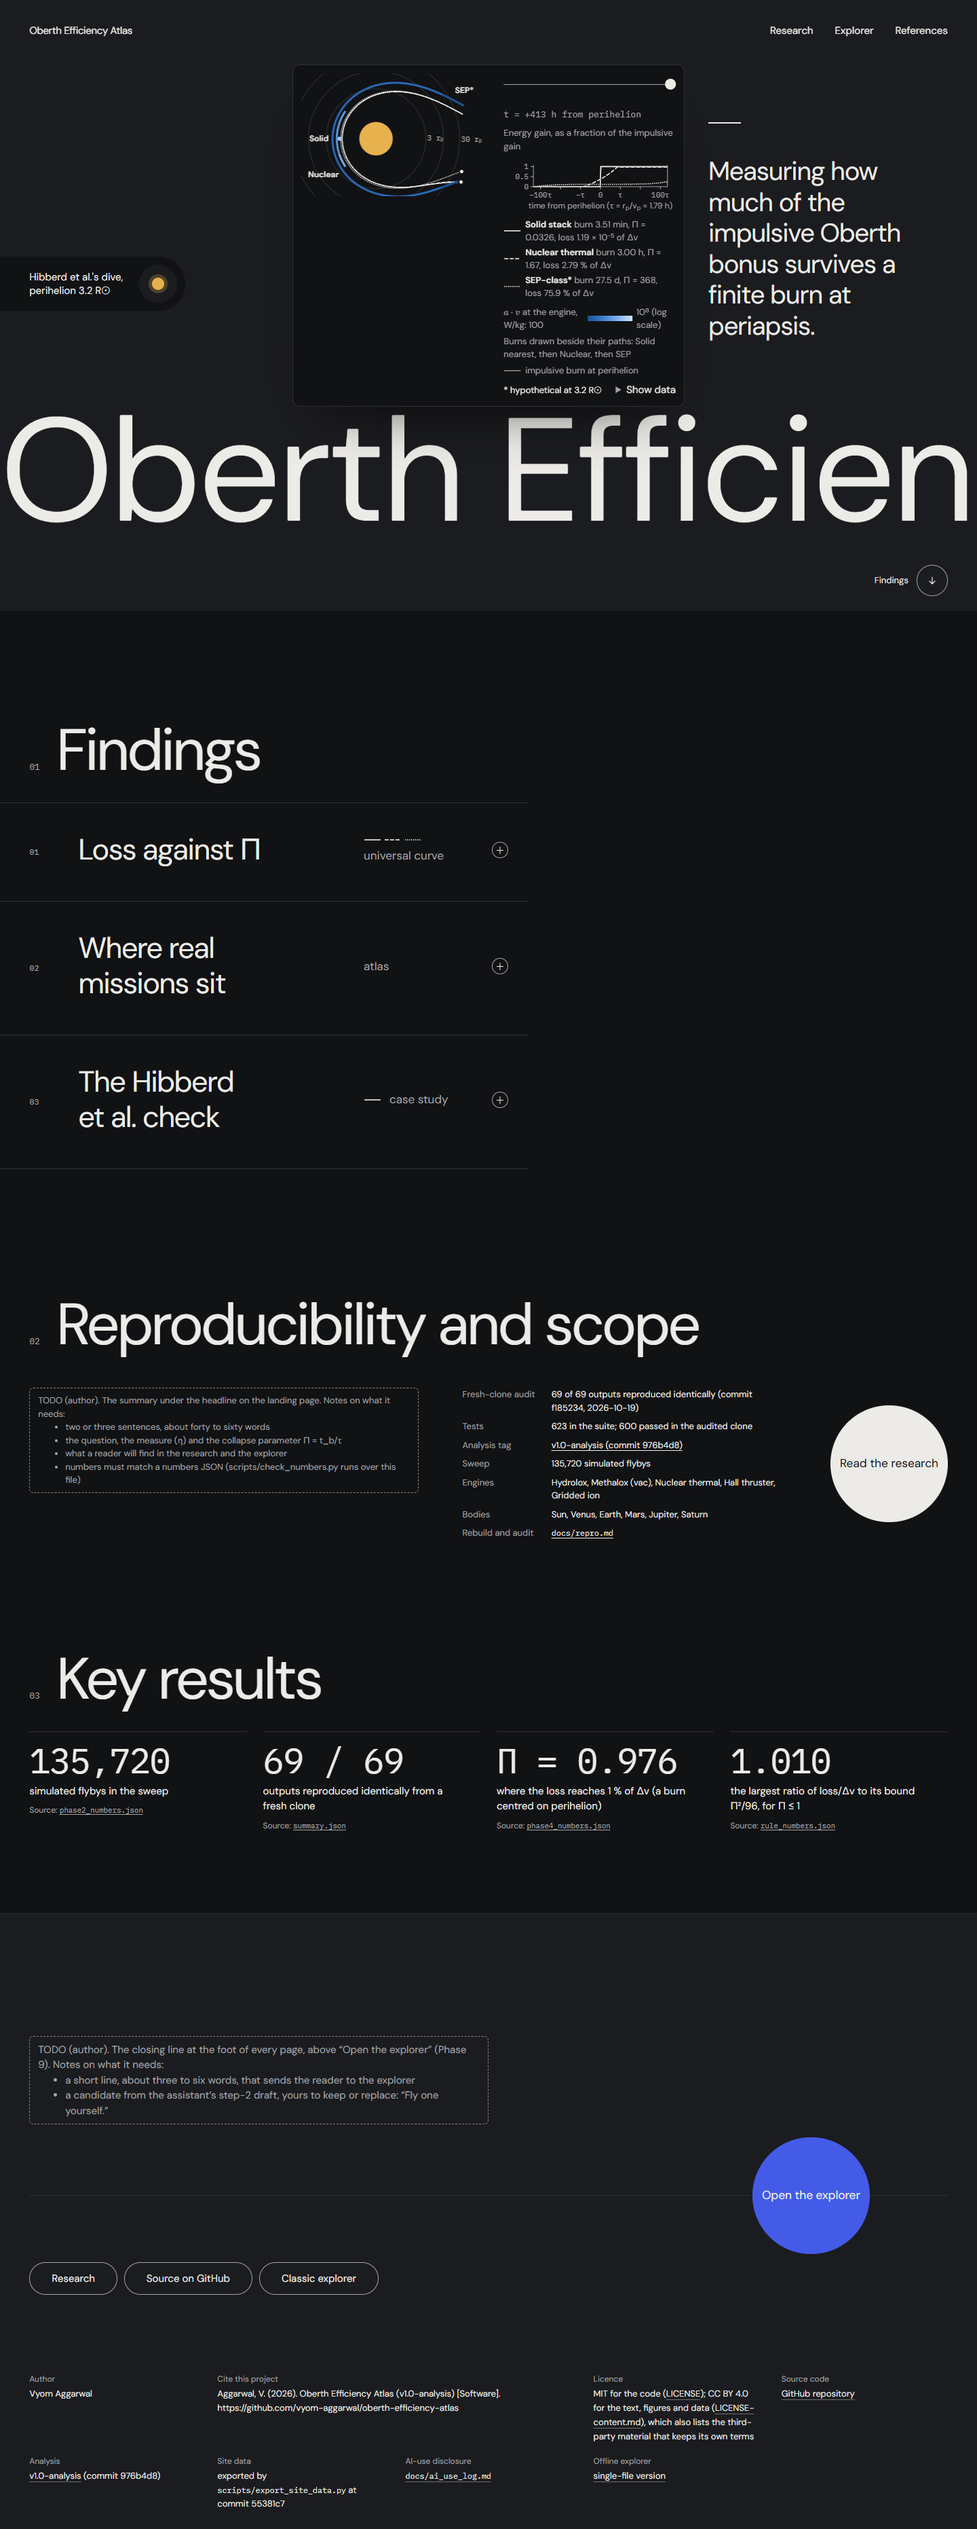
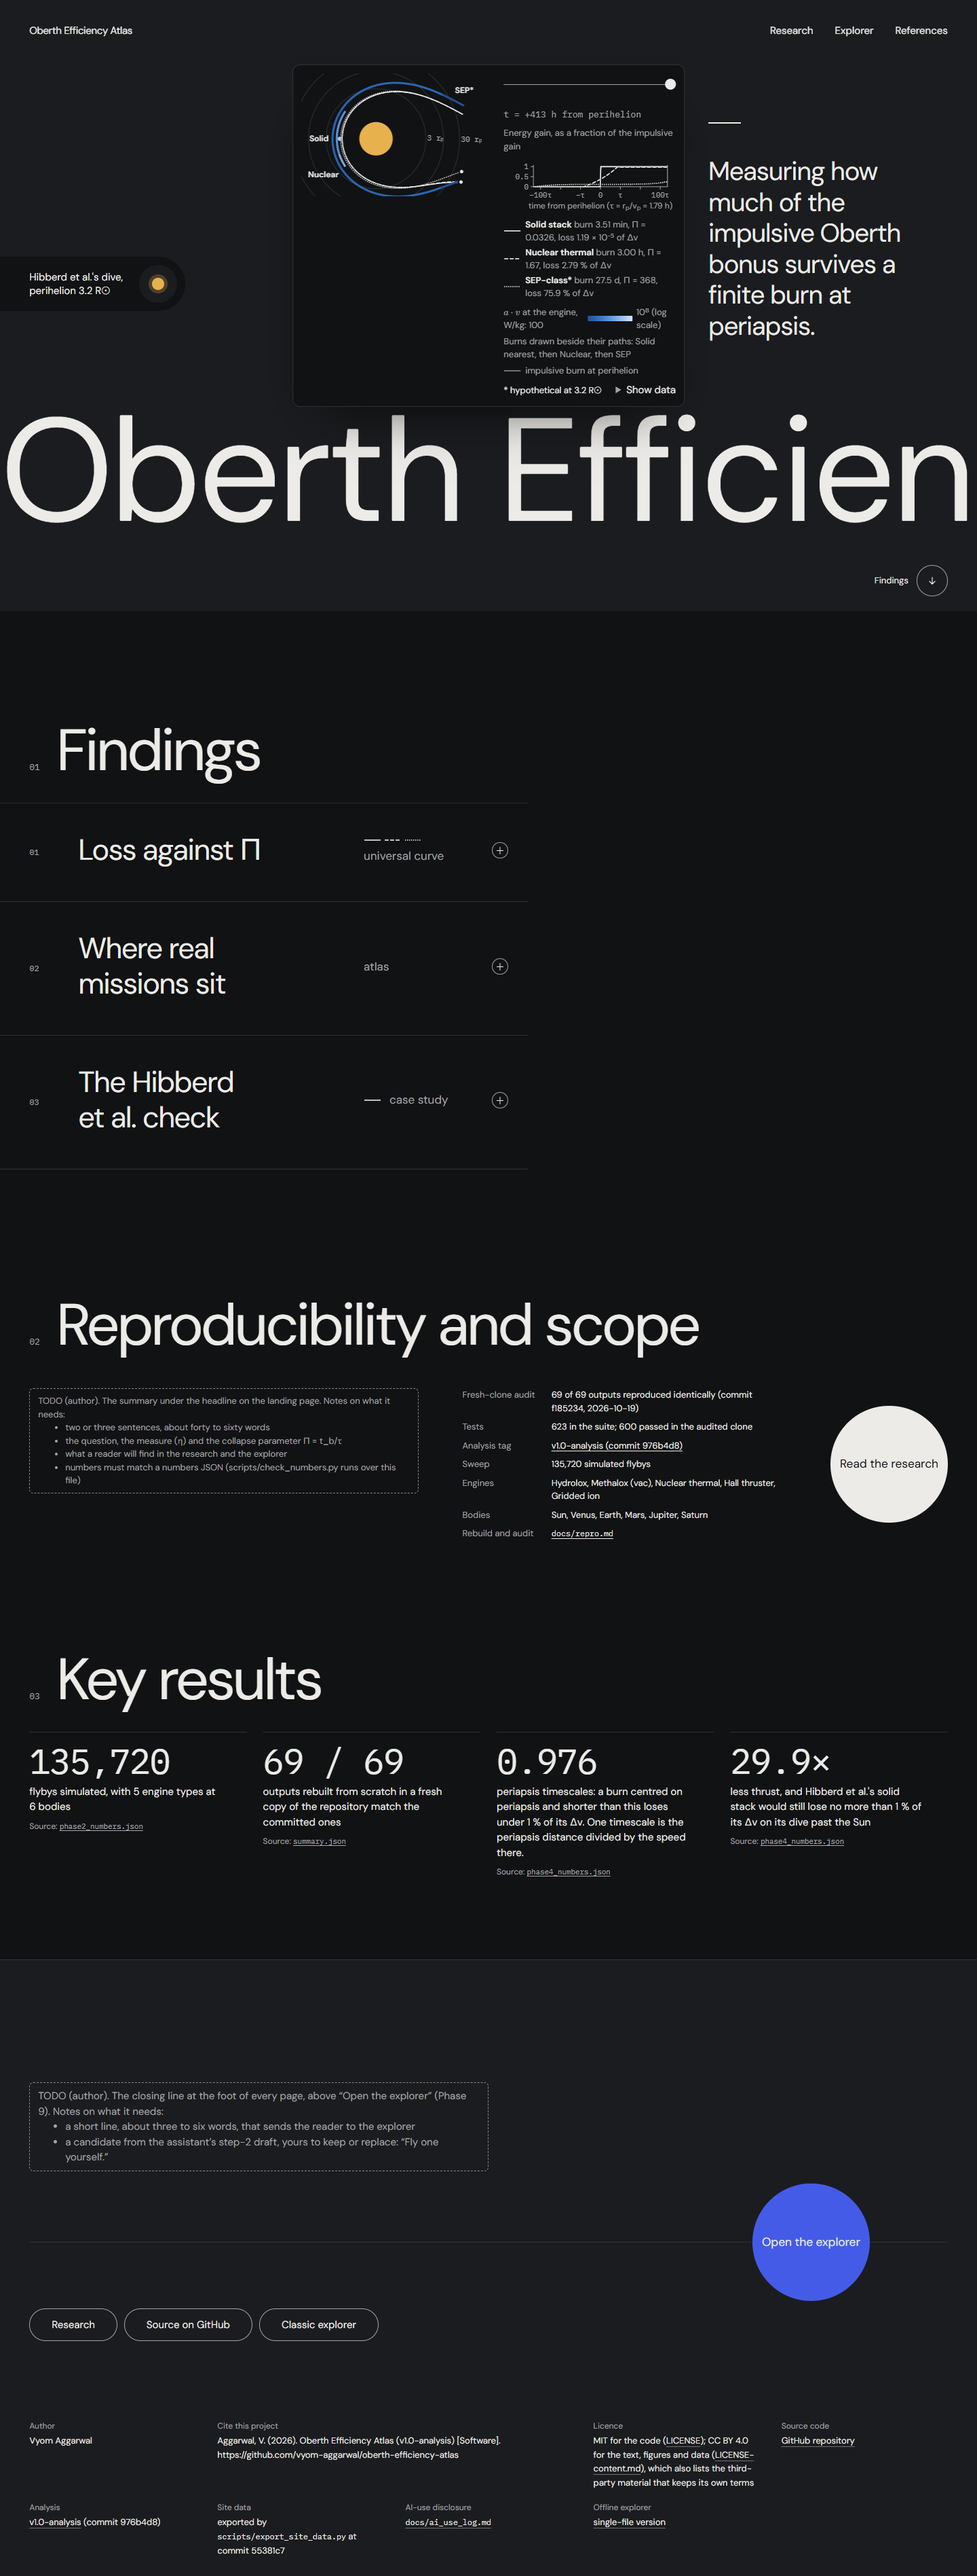
Pass 3 review fixes: laptop folds checked, plain-language key results
The author's two fixes before pass 4 (2026-11-04).

- Fold: fold.spec.ts and headline-budget.spec.ts add 1366 x 650 and 1280 x 720. The published headline and the header's
  links must be fully above the fold there; the Findings cue and the title may fall below.
  - Headline margins: 179 px (1366 x 650), 266 px (1280 x 720), 396 px (1440 x 900), 611 px (390 x 844). At 1440 the
    Findings cue has 22 px.
  - The longest headline that fits is 192 characters at both laptop sizes, so HEADLINE_BUDGET (100) holds and the hero
    needed no change.
- Key results: each number keeps its source link and gains a plain-language label without Π. The numbers inside the
  labels come from the data too.
  - "1.010 against Pi^2/96" is replaced by Hibberd et al.'s thrust margin: 29.9x less thrust before the loss reaches
    1 % (phase4_numbers.json via case.json).
  - The 1 % point now reads in periapsis timescales.
  - check_numbers matches all 9 rendered numbers, with the audit summary given via --json. landing.spec.ts checks each
    number and count against its exact source.
- The review screenshots are refreshed.

diff --git a/site/src/pages/landing.ts b/site/src/pages/landing.ts
@@ -213,7 +213,7 @@ placeDive();
 
 // ---------------------------------------------------------------- the intro's scope facts and the key results
 async function facts(site: SiteData): Promise<void> {
-  const [m, curve] = await Promise.all([loadData<any>("methods.json"), loadData<any>("curve.json")]);
+  const [m, kase] = await Promise.all([loadData<any>("methods.json"), loadData<any>("case.json")]);
   const row = (k: string, v: Node | string) => h("div", {}, h("dt", {}, k), h("dd", {}, v));
   const a = m.audit;
   $("scope-facts").append(
@@ -224,15 +224,23 @@ async function facts(site: SiteData): Promise<void> {
     row("Engines", m.scope.engines.map((e: { value: string }) => e.value).join(", ")),
     row("Bodies", Object.keys(m.scope.bodies.value).map((b) => BODY_NAMES[b] ?? b).join(", ")),
     row("Rebuild and audit", h("a", { href: `${site.repo.url}/blob/main/${m.repro_doc}`, rel: "noopener" }, m.repro_doc)));
-  // Each key result: a number from the site data, what it is, and its source file.
-  const one = curve.thresholds.find((t: { level: string }) => t.level === "1%").Pi;
-  const result = (num: string, what: Node | string, src: string) =>
+  // Each key result: a number from the site data, a plain-language label for a reader who has not met Π yet (author,
+  // 2026-11-04; every number in a label comes from the data too), and its source file. The 1 % threshold is the case
+  // study's (Hibberd et al.'s dive, a burn centred on perihelion): its Π and how far the stack's thrust could fall.
+  const one = kase.thresholds.find((t: { level: string }) => t.level === "1%"), pct = one.level.replace("%", " %");
+  const result = (num: string, what: string, src: string) =>
     h("li", {}, h("span", { class: "num" }, num), h("span", { class: "what" }, what), h("span", { class: "src" }, "Source: ", sourceLink(site, src.split("#")[0])));
   $("key-results").append(
-    result(Number(m.scope.sweep_rows.value).toLocaleString("en-GB"), "simulated flybys in the sweep", m.scope.sweep_rows.src),
-    result(`${a.identical.value} / ${a.outputs.value}`, "outputs reproduced identically from a fresh clone", a.identical.src),
-    result(`Π = ${sig(one.value, 3)}`, "where the loss reaches 1 % of Δv (a burn centred on perihelion)", one.src),
-    result(sig(m.rule_max_ratio_Pi_le_1.value, 4), "the largest ratio of loss/Δv to its bound Π²/96, for Π ≤ 1", m.rule_max_ratio_Pi_le_1.src));
+    result(Number(m.scope.sweep_rows.value).toLocaleString("en-GB"),
+      `flybys simulated, with ${m.scope.engines.length} engine types at ${Object.keys(m.scope.bodies.value).length} bodies`, m.scope.sweep_rows.src),
+    result(`${a.identical.value} / ${a.outputs.value}`,
+      "outputs rebuilt from scratch in a fresh copy of the repository match the committed ones", a.identical.src),
+    result(sig(one.Pi.value, 3),
+      `periapsis timescales: a burn centred on periapsis and shorter than this loses under ${pct} of its Δv. One timescale is ` +
+      "the periapsis distance divided by the speed there.", one.Pi.src),
+    result(`${sig(one.thrust_scale_divisor.value, 3)}×`,
+      `less thrust, and Hibberd et al.'s solid stack would still lose no more than ${pct} of its Δv on its dive past the Sun`,
+      one.thrust_scale_divisor.src));
 }
 
 // ---------------------------------------------------------------- data: the dive (drawn beneath the preloader; its intro

diff --git a/site/e2e/fold.spec.ts b/site/e2e/fold.spec.ts
@@ -12,7 +12,10 @@
 import { expect, test } from "./fixtures";
 import { loadLanding } from "./landing-load";
 
-for (const [width, height] of [[1440, 900], [390, 844]] as const) {
+// Laptop viewports after browser chrome (author, 2026-11-04): 1366 × 650 and 1280 × 720 must keep the headline and the
+// header's links fully above the fold; the Findings cue and the title line may fall below there.
+const LAPTOP = new Set(["1366×650", "1280×720"]);
+for (const [width, height] of [[1440, 900], [1366, 650], [1280, 720], [390, 844]] as const) {
   test(`above the fold at ${width}×${height}: the headline and the way into the site`, async ({ page }, info) => {
     await loadLanding(page, width, height);
     const filled = info.project.name === "placeholders";
@@ -29,8 +32,9 @@ for (const [width, height] of [[1440, 900], [390, 844]] as const) {
       await expect(page.locator("[data-slot].slot-placeholder, [data-slot][data-todo]")).toHaveCount(0);
     }
     const shown = (await headline.count()) > 0;
-    const wide = width >= 900;
-    const parts = [...(shown ? [".slot-headline"] : []), ...(wide ? [".site-nav a", ".band-title", ".band-cue"] : [".menu-pill"])];
+    const wide = width >= 900, laptop = LAPTOP.has(`${width}×${height}`);
+    const parts = [...(shown ? [".slot-headline"] : []),
+      ...(laptop ? [".site-nav a"] : wide ? [".site-nav a", ".band-title", ".band-cue"] : [".menu-pill"])];
     let lowest = 0;
     for (const sel of parts) {
       const boxes = await page.locator(sel).evaluateAll((els) => els.map((e) => e.getBoundingClientRect().toJSON()));
@@ -47,6 +51,8 @@ for (const [width, height] of [[1440, 900], [390, 844]] as const) {
       expect(apart(h, dive), "the headline clear of the dive").toBe(true);
       expect(apart(h, title), "the headline clear of the title line").toBe(true);
     }
-    console.log(`above the fold at ${width}×${height} (${info.project.name}${shown ? ", headline shown" : ""}): the lowest part ends at ${Math.round(lowest)} px`);
+    const lowHead = shown ? (await headline.boundingBox())!.y + (await headline.boundingBox())!.height : 0;
+    console.log(`above the fold at ${width}×${height} (${info.project.name}${shown ? ", headline shown" : ""}): the lowest checked part ends at ` +
+      `${Math.round(lowest)} px (margin ${Math.round(height - lowest)} px); the headline at ${Math.round(lowHead)} px (margin ${Math.round(height - lowHead)} px)`);
   });
 }

diff --git a/site/e2e/landing.spec.ts b/site/e2e/landing.spec.ts
@@ -204,16 +204,20 @@ test("reproducibility and scope: labelled pairs from methods.json", async ({ pag
   await expect(facts).toContainText(m.scope.engines.map((e: { value: string }) => e.value).join(", "));
 });
 
-test("key results: four numbers from the site data, each with a link to its source file", async ({ page }) => {
+test("key results: four numbers from the site data, plain-language labels, each with a link to its source file", async ({ page }) => {
   await open(page, 1440);
-  const m = data("methods.json"), curve = data("curve.json");
-  const one = curve.thresholds.find((t: { level: string }) => t.level === "1%").Pi;
+  const m = data("methods.json"), one = data("case.json").thresholds.find((t: { level: string }) => t.level === "1%");
   const items = page.locator(".key-results li");
   await items.first().scrollIntoViewIfNeeded();
   await expect(items.locator(".num")).toHaveText([
     Number(m.scope.sweep_rows.value).toLocaleString("en-GB"), `${m.audit.identical.value} / ${m.audit.outputs.value}`,
-    `Π = ${one.value.toPrecision(3)}`, m.rule_max_ratio_Pi_le_1.value.toPrecision(4)]);
-  const srcs = [m.scope.sweep_rows.src, m.audit.identical.src, one.src, m.rule_max_ratio_Pi_le_1.src].map((s: string) => s.split("#")[0]);
+    one.Pi.value.toPrecision(3), `${one.thrust_scale_divisor.value.toPrecision(3)}×`]);
+  // The labels' own numbers come from the data too, and none uses Π (author, 2026-11-04).
+  await expect(items.nth(0).locator(".what")).toContainText(`${m.scope.engines.length} engine types at ${Object.keys(m.scope.bodies.value).length} bodies`);
+  await expect(items.nth(2).locator(".what")).toContainText("under 1 % of its Δv");
+  await expect(items.nth(3).locator(".what")).toContainText("Hibberd et al.'s solid stack would still lose no more than 1 % of its Δv");
+  for (const t of await items.locator(".what").allTextContents()) expect(t).not.toMatch(/Π/);
+  const srcs = [m.scope.sweep_rows.src, m.audit.identical.src, one.Pi.src, one.thrust_scale_divisor.src].map((s: string) => s.split("#")[0]);
   for (const [i, src] of srcs.entries())
     await expect(items.nth(i).locator(".src a")).toHaveAttribute("href", new RegExp(`/blob/[^/]+/${src.replace(/[.]/g, "\\.")}$`));
 });

diff --git a/site/e2e/headline-budget.spec.ts b/site/e2e/headline-budget.spec.ts
@@ -1,8 +1,8 @@
 // The landing headline's length budget (author, 2026-10-21; re-measured for the Phase 9 hero), on the placeholder build
 // (Playwright project "placeholders"), where the headline slot exists: lengthen the headline a word at a time and record
-// the longest that still fits, at 1440 × 900 and 390 × 844. It fits while it stays above the fold, and at 1440 (where it
-// sits beside the dive) while it also stays clear of the dive and of the title line below it (fold.spec.ts checks the
-// same at load). The build's HEADLINE_BUDGET (plugins/content-plugin.ts; the build reports a written headline over it)
+// the longest that still fits, at 1440 × 900, the laptop sizes 1366 × 650 and 1280 × 720 (author, 2026-11-04), and
+// 390 × 844. It fits while it stays above the fold, and from 900 px wide (where it sits beside the dive) while it also
+// stays clear of the dive and of the title line below it (fold.spec.ts checks the same at load). The build's HEADLINE_BUDGET (plugins/content-plugin.ts; the build reports a written headline over it)
 // must not exceed that.
 import { HEADLINE_BUDGET, PLACEHOLDERS } from "../plugins/content-plugin";
 import { expect, test } from "./fixtures";
@@ -12,7 +12,7 @@ const LOREM = "Lorem ipsum dolor sit amet consectetur adipiscing elit sed do eiu
   "Ut enim ad minim veniam quis nostrud exercitation ullamco laboris nisi ut aliquip ex ea commodo consequat";
 const WORDS = `${LOREM} ${LOREM} ${LOREM} ${LOREM}`.split(" ");
 
-for (const [width, height] of [[1440, 900], [390, 844]] as const) {
+for (const [width, height] of [[1440, 900], [1366, 650], [1280, 720], [390, 844]] as const) {
   test(`the headline budget at ${width}×${height} is within the longest headline that fits the hero`, async ({ page }) => {
     await loadLanding(page, width, height);
     const longest = await page.evaluate(({ words, wide }) => {

diff --git a/RESEARCH_LOG.md b/RESEARCH_LOG.md
@@ -4039,7 +4039,7 @@ The approved style-page design becomes the landing page (`site/index.html`, `src
   - 135,720 simulated flybys (`phase2_numbers.json`);
   - 69 / 69 outputs reproduced (the audit summary);
   - Π = 0.976 where the loss reaches 1 % of Δv (`phase4_numbers.json`, via `curve.json`);
-  - 1.010, the largest ratio of loss/Δv to its bound Π²/96 for Π ≤ 1 (`rule_numbers.json`; the label avoids "≲",
+  - 1.010, the largest ratio of loss/Δv to its bound Π²/96 for Π ≤ 1 (replaced on 2026-11-04, below; the label avoided "≲",
     which no self-hosted face has: the font test caught it).
 - **the shell's closing section and footer.**
 
@@ -4101,5 +4101,46 @@ Every interaction is the style page's, already approved.
 
 **Review screenshots** (`docs/screens/phase-9-pass-3/`, by `site/tools/landing-shots.mjs`): the author's list at 1440
 and 390 px. The docked hover shots are at 1440 only, since there is no dock below 1100 px.
+
+## 2026-11-04: Phase 9 pass 3 review: laptop folds and plain-language key results
+
+The author approved pass 3 with two fixes.
+
+**1. The fold at laptop viewports.** `e2e/fold.spec.ts` adds 1366 × 650 and 1280 × 720, typical laptop viewports after
+browser chrome. There the published headline and the header's links must be fully above the fold; the Findings cue and
+the title line may fall below. `e2e/headline-budget.spec.ts` measures the same two sizes. Margins, on the production
+and placeholder builds alike (the headline is the author's published one in both):
+
+| viewport | headline ends at | margin | lowest required part ends at | margin |
+|---|---|---|---|---|
+| 1440 × 900 | 504 px | 396 px | 878 px (the Findings cue) | 22 px |
+| 1366 × 650 | 471 px | 179 px | 471 px (the headline) | 179 px |
+| 1280 × 720 | 454 px | 266 px | 454 px (the headline) | 266 px |
+| 390 × 844 | 233 px | 611 px | 233 px (the headline) | 611 px |
+
+The longest headline that fits is 192 characters at both laptop sizes (209 at 1440, 699 at 390). `HEADLINE_BUDGET`
+(100) holds, so the hero needed no change.
+
+**2. Key results a visitor who has not met Π can read** (`landing.ts`). Each number keeps its source link and gains a
+plain-language label. Every number inside a label comes from the data as well: the engine and body counts from
+`methods.json`, the "1 %" from the threshold's own level.
+- **135,720:** "flybys simulated, with 5 engine types at 6 bodies" (`phase2_numbers.json`).
+- **69 / 69:** "outputs rebuilt from scratch in a fresh copy of the repository match the committed ones" (the audit summary).
+- **0.976:** "periapsis timescales: a burn centred on periapsis and shorter than this loses under 1 % of its Δv. One
+  timescale is the periapsis distance divided by the speed there." This is the 1 % threshold of the case study's
+  centred burn (`phase4_numbers.json`, `thresholds/time_centred/1%/Pi`).
+- **29.9×, replacing "1.010 against Π²/96"** (the author's suggestion): "less thrust, and Hibberd et al.'s solid stack
+  would still lose no more than 1 % of its Δv on its dive past the Sun". This is Hibberd et al.'s thrust margin, the
+  divisor at which the loss reaches 1 % (`phase4_numbers.json`, `thresholds/time_centred/1%/thrust_scale_divisor`
+  = 29.887, via `case.json`).
+
+**Checks:**
+- **No new glyphs.** No label uses Π, and none needs a glyph outside the self-hosted fonts: the font test passes, and
+  "×" is in DM Sans's Latin set.
+- **check_numbers on the rendered key results** (from the test build, `--strict`): with the default files it matched
+  every number but "69", whose source, `docs/audit/2026-10-19_f185234/summary.json`, is not among them. Run with
+  `--json figures/*numbers*.json docs/audit/2026-10-19_f185234/summary.json`, all 9 numbers match. The loose matching
+  of small integers (5, 6) is backed by `e2e/landing.spec.ts`, which checks each number and count against its exact
+  source.
 
 
